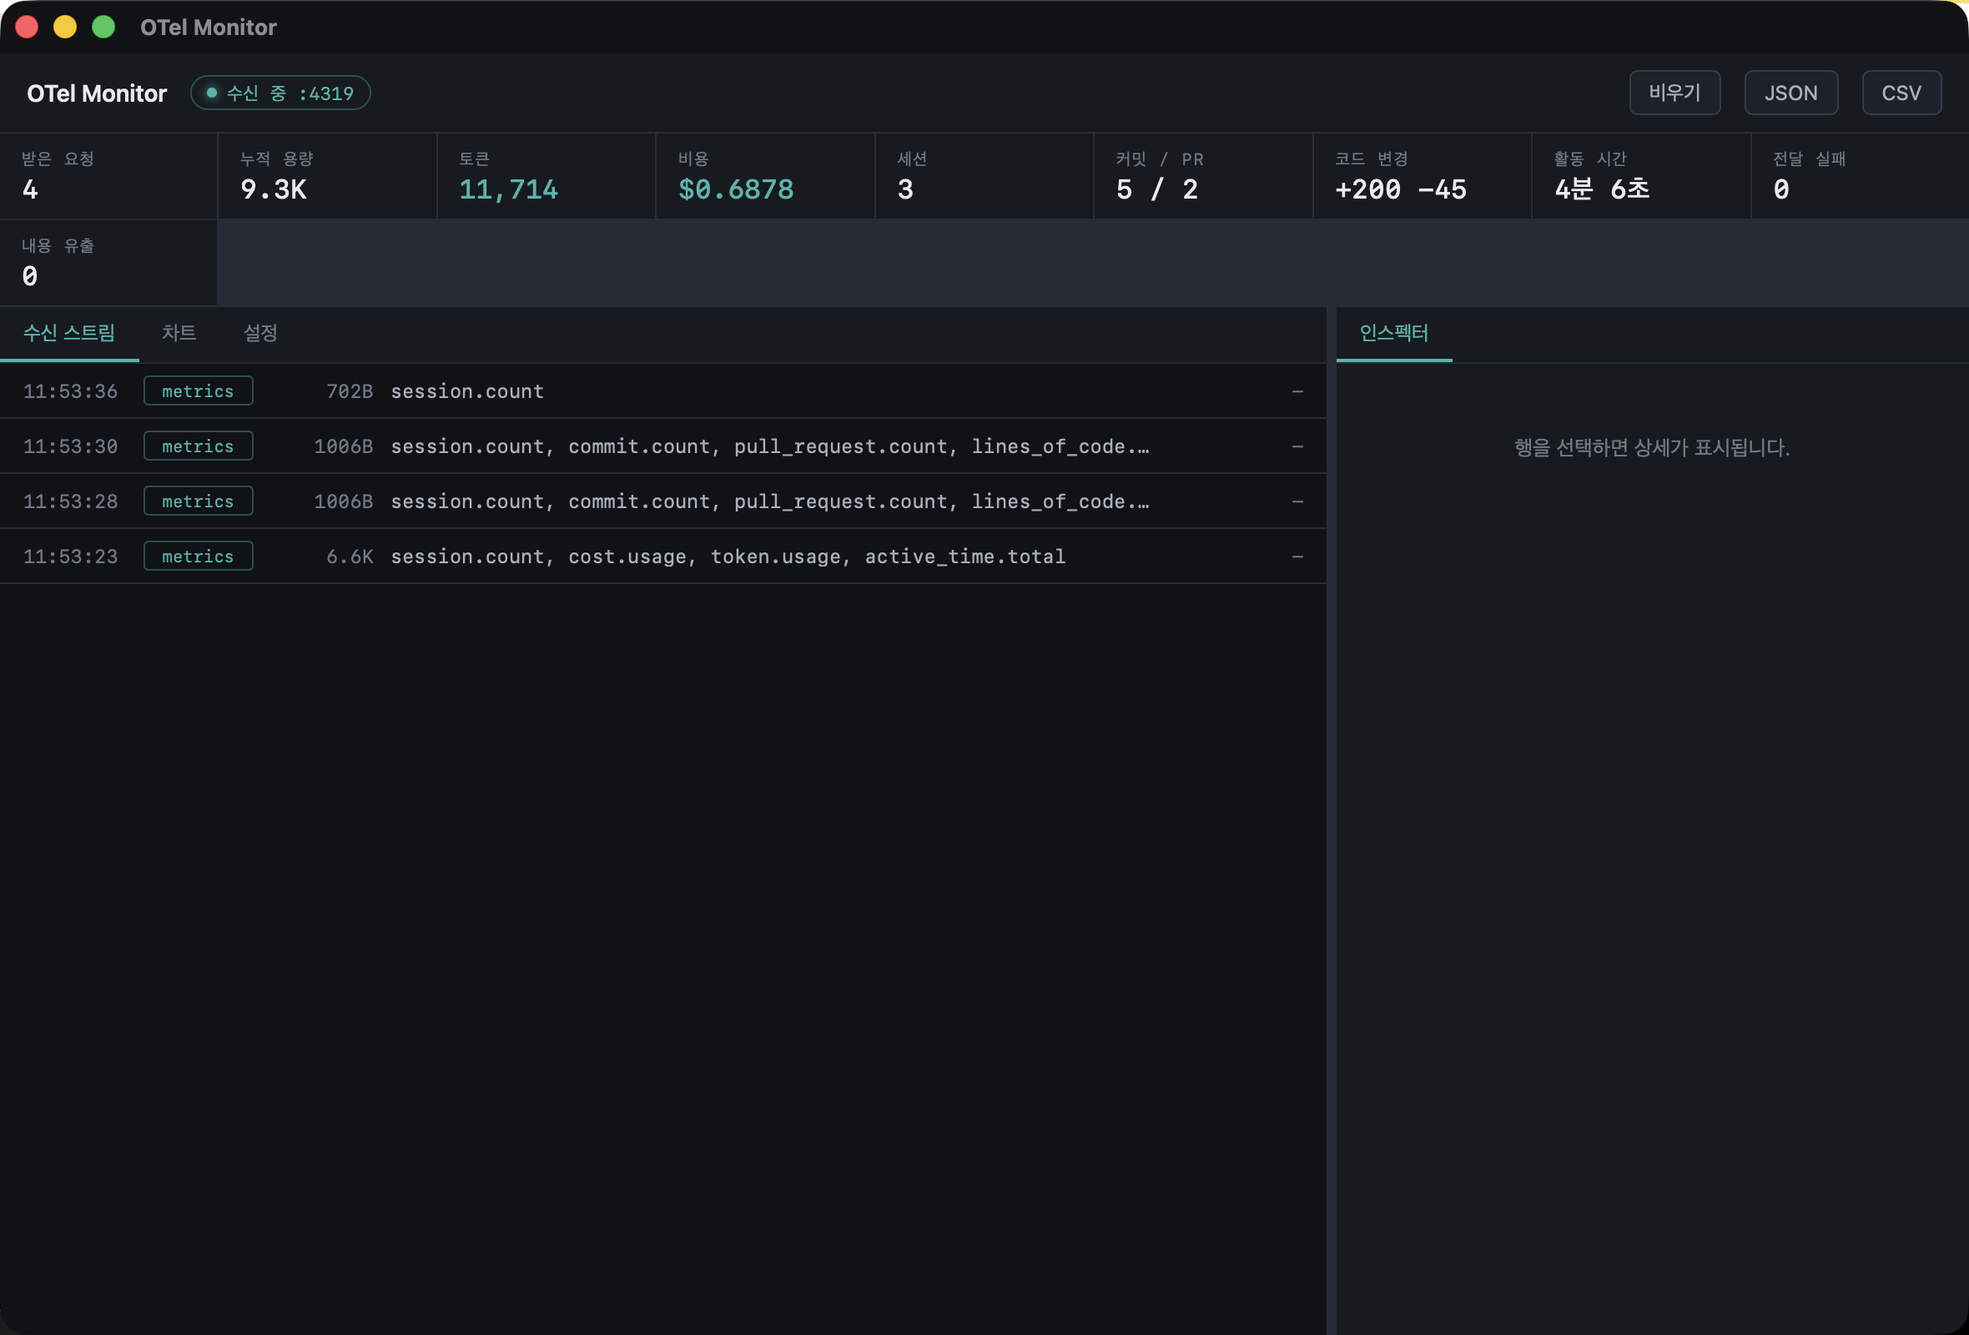
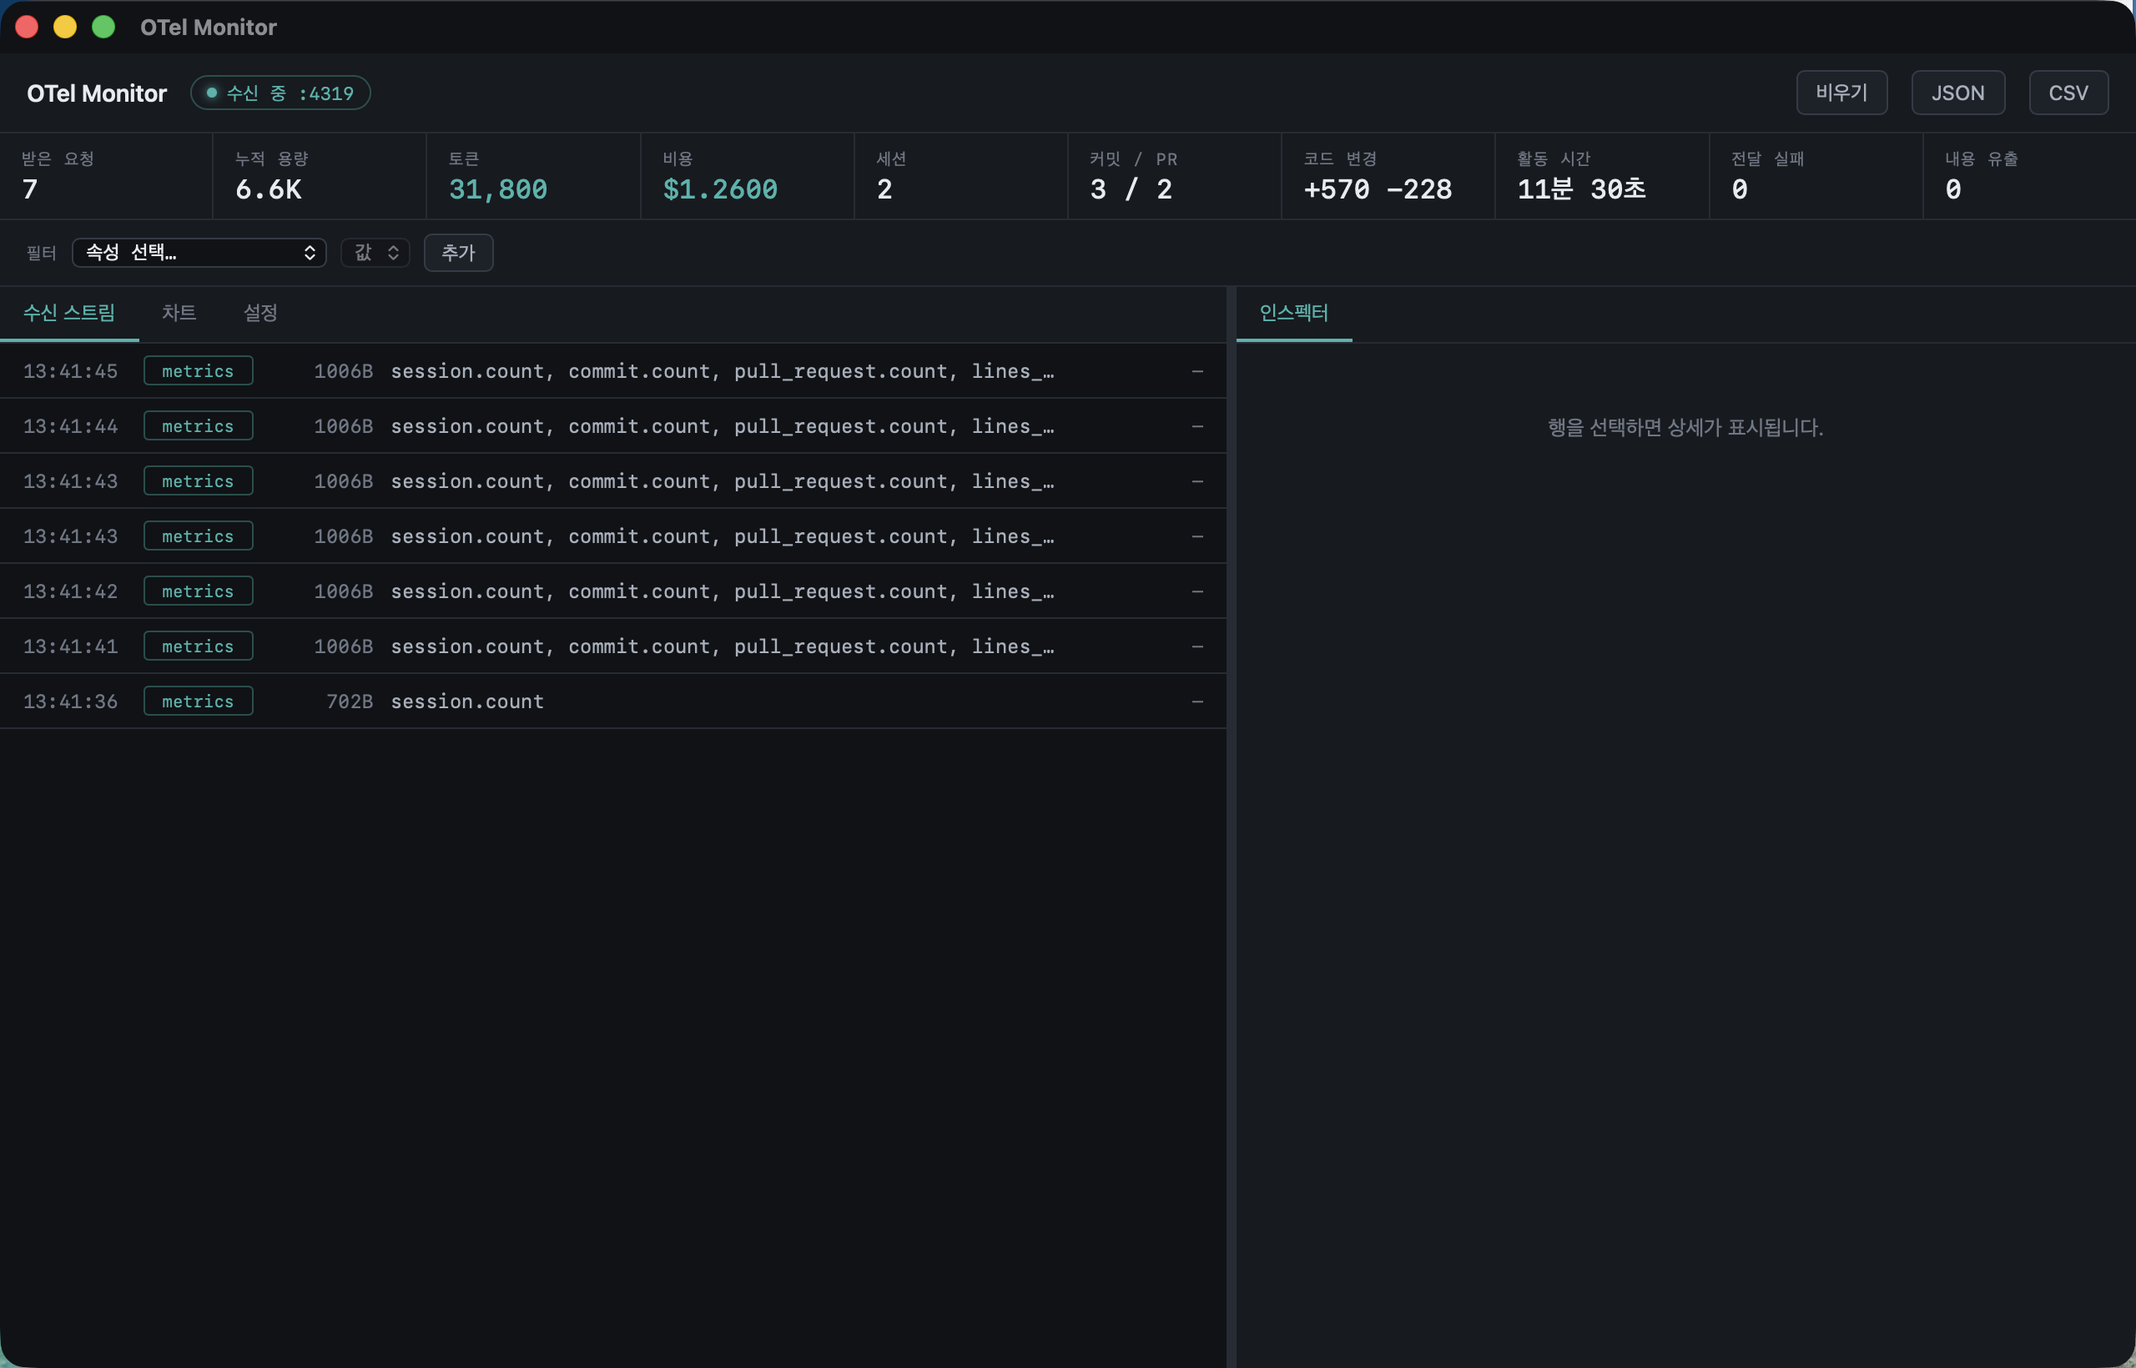
docs: v0.2.0 내용 반영하고 문구를 자연스럽게 다듬음
- 랜딩 다운로드 링크와 버전을 0.2.0 으로
- 기능 카드에 필터·차트/툴팁·날짜별 기록·자동 업데이트 추가
- README 기능 표와 구조 설명 갱신
- 스크린샷을 새 UI 로 교체
- 번역투와 과한 수사를 걷어내고 읽기 편한 문장으로

diff --git a/site/index.html b/site/index.html
@@ -247,14 +247,14 @@
     <p class="sub">macOS 13+ · Universal (Intel &amp; Apple Silicon) · 무료 · 오픈소스</p>
 
     <div class="cta">
-      <a class="btn btn-primary" id="dl" href="https://github.com/Seungwoo321/otel-monitor/releases/latest/download/OTel-Monitor-0.1.0-universal.dmg">
+      <a class="btn btn-primary" id="dl" href="https://github.com/Seungwoo321/otel-monitor/releases/latest/download/OTel-Monitor-0.2.0-universal.dmg">
         ↓ macOS 다운로드
       </a>
       <a class="btn btn-ghost" href="https://github.com/Seungwoo321/otel-monitor">GitHub</a>
     </div>
 
     <div class="meta">
-      <span><b>v0.1.0</b></span>
+      <span><b>v0.2.0</b></span>
       <span>서명 · 공증 완료</span>
       <span>10.6 MB</span>
     </div>
@@ -270,22 +270,22 @@
   <section>
     <h2>텔레메트리는 조용히 나갑니다</h2>
     <p class="lede">
-      Claude Code 의 OpenTelemetry 를 켜면 사용량 메트릭이 주기적으로 전송됩니다.
-      다만 전송 내역이 로컬에 남지 않아, 무엇이 얼마나 나가는지 확인할 방법이 마땅치 않습니다.
+      Claude Code 의 OpenTelemetry 를 켜면 사용량 메트릭이 주기적으로 나갑니다.
+      그런데 전송 내역이 로컬에 남지 않아, 무엇이 얼마나 나가는지 알 방법이 없습니다.
     </p>
 
     <div class="facts">
       <div class="fact">
         <span class="ico">1</span>
-        <p>전송 성공·실패 <b>기록이 로컬에 남지 않습니다.</b></p>
+        <p>전송 성공·실패가 <b>로컬에 남지 않습니다.</b></p>
       </div>
       <div class="fact">
         <span class="ico">2</span>
-        <p>실패는 <code>claude --debug</code> 로만 드러나 <b>평소엔 알아채기 어렵습니다.</b></p>
+        <p>실패는 <code>claude --debug</code> 를 켜야 보여서 <b>평소엔 모르고 지나갑니다.</b></p>
       </div>
       <div class="fact">
         <span class="ico">3</span>
-        <p>설정을 바꿨을 때 <b>실제로 무엇이 달라지는지</b> 눈으로 볼 수 없습니다.</p>
+        <p>설정을 바꿔도 <b>뭐가 달라졌는지</b> 확인할 수 없습니다.</p>
       </div>
     </div>
   </section>
@@ -293,8 +293,8 @@
   <section>
     <h2>중간에 세워두고 들여다봅니다</h2>
     <p class="lede">
-      로컬에서 OTLP 를 받아 디코딩·기록한 뒤, 설정한 수집 서버로 바이트를 그대로 넘깁니다.
-      기존 수집을 끊지 않고 내용만 들여다볼 수 있습니다.
+      로컬에서 OTLP 를 받아 풀어본 뒤, 수집 서버로 받은 바이트를 그대로 넘깁니다.
+      기존 수집은 그대로 두고 내용만 봅니다.
     </p>
 
     <div class="flow">Claude Code
@@ -311,33 +311,46 @@
     <div class="grid">
       <div class="card alert">
         <h3><span class="dot"></span>내용 유출 감지</h3>
-        <p>프롬프트·응답 원문이나 도구 파라미터가 페이로드에 포함되면 알려줍니다.
-           로그 신호가 켜진 것도 함께 표시합니다.</p>
+        <p>프롬프트나 응답 원문, 도구 파라미터가 섞여 들어오면 알려줍니다.
+           로그 신호가 켜진 것도 같이 표시합니다.</p>
       </div>
       <div class="card">
         <h3><span class="dot"></span>실시간 수신 스트림</h3>
-        <p>요청 하나하나를 시각·크기·메트릭명·응답과 함께 보여줍니다.
-           선택하면 전체 속성을 펼쳐 봅니다.</p>
+        <p>요청 하나하나를 시각·크기·메트릭명과 함께 보여줍니다.
+           고르면 전체 속성이 펼쳐집니다.</p>
       </div>
       <div class="card">
         <h3><span class="dot"></span>개인 식별 정보 표시</h3>
-        <p><code>user.email</code>·<code>organization.id</code> 같은 식별 속성을
-           따로 색으로 구분해 드러냅니다.</p>
+        <p><code>user.email</code>·<code>organization.id</code> 같은 식별 속성은
+           색을 달리해 눈에 띄게 합니다.</p>
       </div>
       <div class="card">
-        <h3><span class="dot"></span>누적 통계와 차트</h3>
-        <p>토큰·비용·커밋·코드 변경·활동 시간을 집계하고 시계열로 그립니다.
-           cumulative 누계를 정확히 처리합니다.</p>
+        <h3><span class="dot"></span>차트와 툴팁</h3>
+        <p>토큰·비용·활동 시간·코드 변경을 시계열로 그립니다.
+           그래프에 마우스를 올리면 그 지점 값이 한 번에 보입니다.</p>
+      </div>
+      <div class="card">
+        <h3><span class="dot"></span>속성 필터</h3>
+        <p><code>user.email</code>·<code>unit</code>·<code>model</code> 등 원하는 속성으로
+           스트림·통계·차트를 한 번에 걸러냅니다.</p>
+      </div>
+      <div class="card">
+        <h3><span class="dot"></span>날짜별 기록</h3>
+        <p>날짜·계정별 합계를 남겨 7·30·90일 추이를 봅니다.
+           요청 원문은 저장하지 않습니다.</p>
+      </div>
+      <div class="card">
+        <h3><span class="dot"></span>자동 업데이트</h3>
+        <p>새 버전이 나오면 알려줍니다. 확인을 눌러야 받습니다.</p>
       </div>
       <div class="card">
         <h3><span class="dot"></span>설정 진단</h3>
-        <p><code>settings.json</code> 을 직접 읽어 내용 노출 키 6종이
-           켜져 있는지 확인해 줍니다.</p>
+        <p><code>settings.json</code> 을 읽어 내용 노출 키 6종이 켜져 있는지 확인합니다.</p>
       </div>
       <div class="card">
         <h3><span class="dot"></span>내보내기</h3>
         <p>수집한 캡처를 JSON·CSV 로 저장합니다.
-           데이터는 메모리에만 있고 외부로 나가지 않습니다.</p>
+           데이터는 이 기기를 벗어나지 않습니다.</p>
       </div>
     </div>
   </section>
@@ -371,13 +384,14 @@
 
     <div class="note">
       이미 수집 서버로 보내고 있다면 그 주소를 앱 설정의 <b>전달할 서버 주소</b> 에 넣으세요.
-      받은 내용을 그대로 넘깁니다. 앱을 꺼두면 그 구간은 전달되지 않습니다.
+      받은 내용을 그대로 넘깁니다. 비워두면 이 앱에서만 보고 끝납니다.
+      앱이 꺼져 있으면 그 구간은 전달되지 않습니다.
     </div>
   </section>
 
   <section>
     <h2>무엇이 잡히나</h2>
-    <p class="lede">Claude Code 가 내보내는 메트릭은 8종이 전부입니다. 전부 숫자입니다.</p>
+    <p class="lede">Claude Code 가 내보내는 메트릭은 이 8종이 전부입니다.</p>
     <div class="tw">
       <table>
         <thead><tr><th>메트릭</th><th>의미</th></tr></thead>
@@ -394,9 +408,9 @@
       </table>
     </div>
     <div class="note">
-      값은 숫자 집계이고 대화 내용은 포함되지 않습니다.
-      다만 로그인 상태에서는 <code>user.email</code>·<code>organization.id</code> 같은
-      식별 속성이 함께 붙습니다. 인스펙터가 이 속성들을 따로 표시해 줍니다.
+      숫자뿐이고 대화 내용은 없습니다.
+      다만 로그인 상태면 <code>user.email</code>·<code>organization.id</code> 가 같이 붙습니다.
+      인스펙터에서 따로 표시됩니다.
     </div>
   </section>
 

diff --git a/README.md b/README.md
@@ -18,19 +18,19 @@
 
 ## 왜 만들었나
 
-Claude Code 의 OpenTelemetry 를 켜면 사용량 메트릭이 주기적으로 수집 서버로 전송된다.
-숫자 집계만 나가고 프롬프트·코드 원문은 나가지 않지만, 그걸 확인할 방법이 마땅치 않았다.
+Claude Code 의 OpenTelemetry 를 켜면 사용량 메트릭이 주기적으로 수집 서버로 나간다.
+숫자만 나가고 프롬프트나 코드는 안 나가는데, 정작 그걸 확인할 방법이 없었다.
 
-- 전송 성공·실패 기록이 로컬에 남지 않는다
-- 실패는 `claude --debug` 로만 드러나 평소엔 알아채기 어렵다
-- 설정을 바꿨을 때 실제로 무엇이 달라지는지 눈으로 볼 수 없다
+- 전송 성공·실패가 로컬에 안 남는다
+- 실패는 `claude --debug` 를 켜야 보인다
+- 설정을 바꿔도 뭐가 달라졌는지 알 수 없다
 
-그래서 중간에 세워두고 지나가는 걸 들여다보는 도구를 만들었다.
+그래서 중간에 하나 세워두고 지나가는 걸 들여다보기로 했다.
 
 ## 어떻게 동작하나
 
-로컬에서 OTLP 를 받아 디코딩·기록한 뒤, 설정한 수집 서버로 **바이트를 그대로** 넘긴다.
-기존 수집을 끊지 않고 내용만 들여다볼 수 있다.
+로컬에서 OTLP 를 받아 풀어본 뒤, 수집 서버로 받은 바이트를 그대로 넘긴다.
+기존 수집은 그대로 두고 내용만 본다.
 
 ```
 Claude Code
@@ -53,22 +53,38 @@ OTel Monitor  :4319     ← 디코딩 · 기록 · 유출 감지
 
 | 영역 | 내용 |
 |---|---|
-| **상단 통계** | 받은 요청 · 누적 용량 · 토큰 · 비용 · 세션 · 커밋/PR · 코드 변경 · 활동 시간 · 전달 실패 · 내용 유출 |
+| **상단 통계** | 받은 요청 · 누적 용량 · 토큰 · 비용 · 세션 · 커밋/PR · 코드 변경 · 활동 시간 · 전달 실패 · 내용 유출. 창 폭에 맞춰 열 수가 바뀐다 |
+| **필터** | `user.email`·`unit`·`model` 등 원하는 속성으로 스트림·통계·차트를 한 번에 거른다 |
 | **수신 스트림** | 요청 하나하나를 시각 · 신호 종류 · 크기 · 메트릭명 · 응답과 함께 나열 |
 | **인스펙터** | 선택한 요청의 전체 속성. 개인 식별 정보는 색으로 구분. 경계선을 드래그해 너비 조정 |
-| **차트** | 토큰·비용 시계열. 이번 실행 / 7일 / 30일 / 90일 범위 전환 |
-| **필터** | 속성(`user.email`·`unit`·`model` 등) 기준으로 스트림·통계·차트를 함께 걸러낸다 |
+| **차트** | 토큰(input/output) · 비용 · 활동 시간 · 코드 변경. 호버하면 그 지점의 값을 모두 보여준다. 이번 실행 / 7 · 30 · 90일 전환 |
 | **설정** | 포트 · 전달 서버 · 전달 on/off, 테마, 기록 보관 기간, 업데이트 확인, 설정 파일 진단 |
 
 ### 내용 유출 감지
 
-다음이 페이로드에 나타나면 상단에 배너로 알려준다.
+아래 항목이 페이로드에 섞여 들어오면 상단에 배너가 뜬다.
 
 - **로그(이벤트) 신호 자체** — `OTEL_LOGS_EXPORTER` 가 켜졌다는 뜻이다
 - **내용 필드** — `prompt`, `response`, `tool_parameters`, `error`, `api_request_body` 등이
   비어 있지 않고 `<REDACTED>` 도 아닌 경우
 
-설정 탭의 진단 기능은 `settings.json` 을 직접 읽어 내용 노출 키 6종이 켜져 있는지 확인해 준다.
+설정 탭에서 `settings.json` 을 읽어 내용 노출 키 6종이 켜져 있는지도 확인할 수 있다.
+
+### 날짜별 기록
+
+날짜·계정별 사용량 합계를 남긴다. 7·30·90일 추이를 볼 수 있다.
+요청 원문은 저장하지 않는다. 볼 일도 없는 데이터를 쌓아둘 이유가 없어서다.
+
+```
+~/Library/Application Support/dev.seungwoo.otel-monitor/history.json
+```
+
+보관 기간은 기본 90일. 설정에서 바꿀 수 있고, 줄이면 그 자리에서 정리된다.
+전체 삭제 버튼도 있다. 1년을 써도 1MB가 안 된다.
+
+### 자동 업데이트
+
+새 버전이 나오면 알려준다. 확인을 눌러야 받는다.
 
 ## 설치
 
@@ -121,44 +137,45 @@ Claude Code 가 내보내는 메트릭은 8종이 전부다.
 | `code_edit_tool.decision` | 편집 권한 승인 · 거절 |
 | `active_time.total` | 실제 활동 시간(초) |
 
-값은 숫자 집계이고 대화 내용은 포함되지 않는다.
-다만 로그인 상태에서는 `user.email`·`organization.id` 같은 식별 속성이 함께 붙는다 —
-인스펙터가 이 속성들을 따로 표시해 준다.
+숫자뿐이고 대화 내용은 없다.
+다만 로그인 상태면 `user.email`·`organization.id` 가 같이 붙는다. 인스펙터에서 따로 표시된다.
 
 ## 만들면서 알게 된 것
 
-- **헤드리스(`claude -p`)는 메트릭을 내보내지 않는다.** 대화형 세션에서만 export 가 돈다.
-  테스트하다 한참 헤맸다.
-- **cumulative temporality 를 조심해야 한다.** Claude Code 는 매 전송마다 "세션 시작 이후 누계"를
-  통째로 다시 보낸다. 값을 더하면 중복 계상된다 — 시리즈별 최신값으로 덮어써야 맞다.
-  처음에 `+=` 로 짰다가 커밋 수가 두 배로 뜨는 걸 보고 알았다.
-- 콘솔 익스포터(`OTEL_METRICS_EXPORTER=console,otlp`)는 쉼표로 여러 개 지정이 되는데,
-  출력이 어디로 가는지는 문서에 없다.
-- Claude 설정 폴더의 `telemetry/` 디렉토리는 **Anthropic 자체 제품 분석**(`1p_failed_events`)이고
-  OTel 과는 완전히 다른 계통이다. 헷갈리기 쉽다.
+- 헤드리스(`claude -p`)는 메트릭을 안 보낸다. 대화형 세션에서만 나간다. 이거 모르고 한참 헤맸다.
+- Claude Code 는 매번 "세션 시작 이후 누계"를 통째로 다시 보낸다(cumulative).
+  그래서 값을 더하면 안 되고 최신값으로 덮어써야 한다. 처음에 `+=` 로 짰다가
+  커밋 수가 두 배로 찍히는 걸 보고 알았다.
+- `OTEL_METRICS_EXPORTER` 는 `console,otlp` 처럼 쉼표로 여러 개를 줄 수 있다.
+  다만 콘솔 출력이 어디로 가는지는 문서에 안 나온다.
+- Claude 설정 폴더의 `telemetry/` 는 Anthropic 자체 분석용(`1p_failed_events`)이라
+  여기서 다루는 OTel 과 무관하다. 이름 때문에 헷갈린다.
 
 ## 구조
 
 ```
 src-tauri/src/
-  otlp.rs    OTLP 수신 · protobuf 디코딩 · 유출 판정 · 라우팅
-  state.rs   캡처 버퍼 · 누적 집계(cumulative) · 전달
-  lib.rs     Tauri 커맨드 · 서버 기동
+  otlp.rs     OTLP 수신 · protobuf 디코딩 · 유출 판정 · 라우팅
+  state.rs    캡처 버퍼 · 누적 집계(cumulative) · 전달
+  history.rs  날짜별 기록 저장 · 보관 기간 정리
+  lib.rs      Tauri 커맨드 · 서버 기동
 src/
   index.html  UI · 테마 토큰
-  main.js     렌더링 · SVG 차트 · 리사이저 · 이벤트 수신
+  main.js     렌더링 · SVG 차트 · 필터 · 리사이저
+scripts/
+  build-macos-release.sh   서명 · 공증 · staple
+  make-latest-json.sh      업데이터 매니페스트 생성
 ```
 
-protobuf 는 `opentelemetry-proto` 크레이트로 정식 디코딩한다.
-처음엔 바이너리에서 문자열만 긁어내는 방식으로 프로토타이핑했는데, 값이 자꾸 어긋나서 갈아엎었다.
+protobuf 는 `opentelemetry-proto` 크레이트로 제대로 디코딩한다.
+처음엔 바이너리에서 문자열만 긁어 쓰다가 값이 자꾸 어긋나서 갈아엎었다.
 
 ## 안 하는 것
 
 - **요청 원문을 저장하지 않는다.** 캡처는 메모리에만 있고(최대 500건) 앱을 끄면 사라진다.
-  디스크에 남는 것은 날짜×계정별 **합계와 유출 기록**뿐이다(기본 90일 보관, 1년 써도 1MB 미만).
-  원문이 필요하면 JSON/CSV 로 내보낸다.
-- 지나가는 내용을 **바꾸지 않는다.** 감시용이지 차단용이 아니다.
-- **앱을 꺼두면 그 구간은 전달되지 않는다.** 프록시를 중간에 두는 이상 피할 수 없는 부분이다.
+  디스크에 남는 건 날짜·계정별 합계와 유출 기록뿐이다. 원문이 필요하면 JSON/CSV 로 내보낸다.
+- 지나가는 내용을 바꾸지 않는다. 보는 도구지 막는 도구가 아니다.
+- 앱이 꺼져 있으면 그 구간은 전달되지 않는다. 중간에 끼워 넣는 이상 어쩔 수 없다.
 
 ## 라이선스
 
